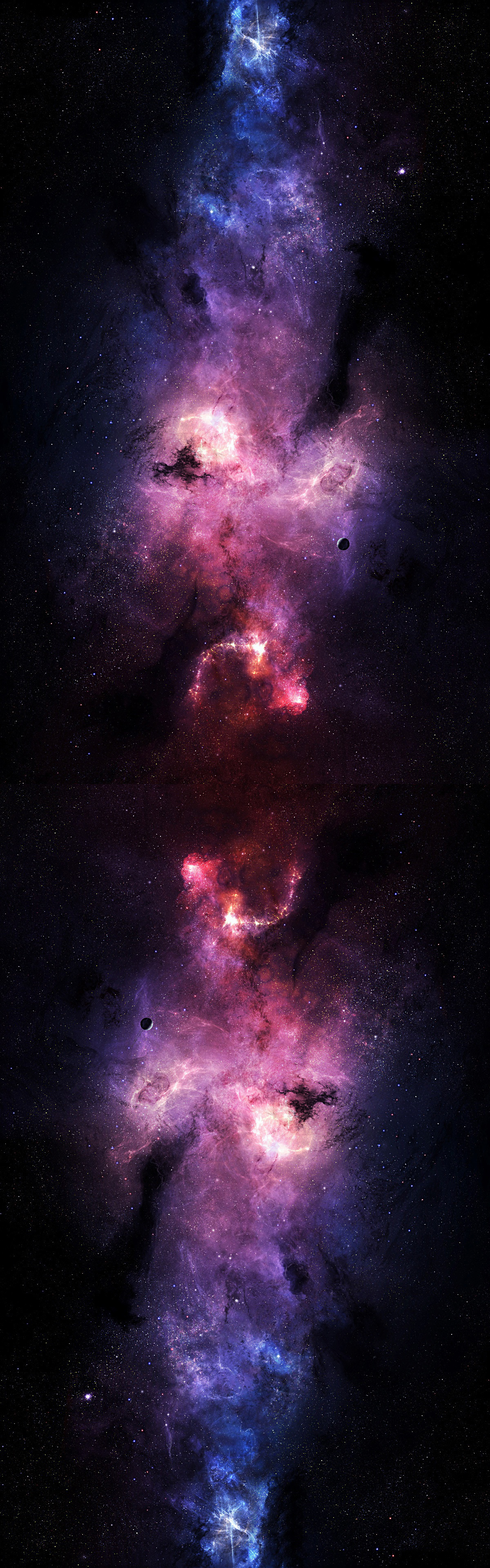
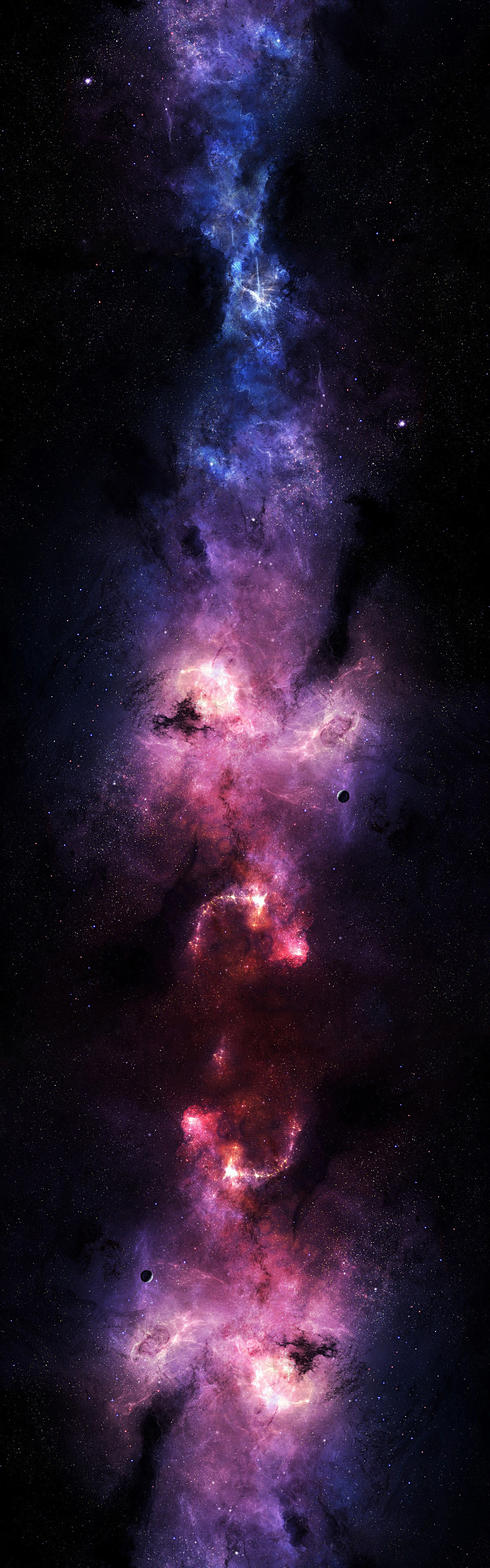
Added starry background, started tuning weapon values

diff --git a/todo.md b/todo.md
@@ -1,0 +1,21 @@
+
+- IDD blast effect with restricted radius and it's own bin-space
+- Points-buy system for waves
+- Wave histogram
+- Score increases weapon
+- Enemies choose random player to target each wave. If target disappears, choose
+  new target
+- Big enemies select nearest player, or player to hurt them most recently
+- Backdrop starfield
+- Loop backdrop graphic
+- Mobile control input
+- Mobile control server
+- WS stream to server
+- Accelerometer input
+- Player spawn animation
+- Enemy pod spawn animation
+- Extract WavePod object, give it some agency
+- Stop restricting enemies to the screen box
+- Enemies attempt to move back towards the pod
+- Allow players to drop in and out
+
